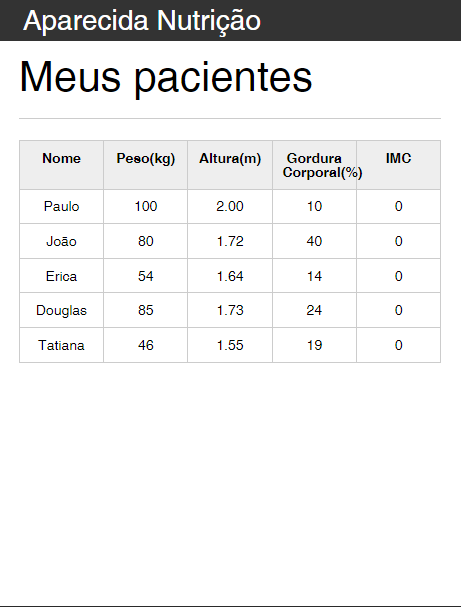
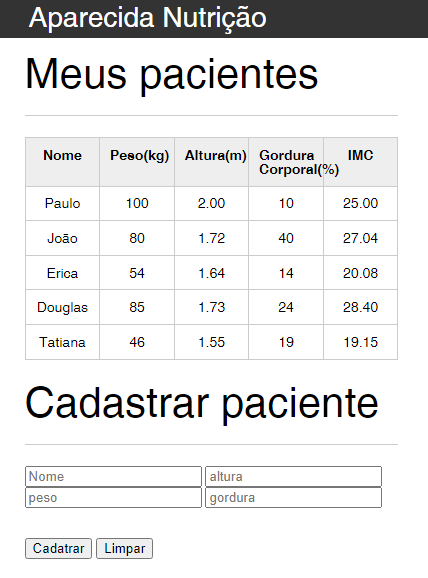
funcionalidade adicionar paciente

diff --git a/js/java.js b/js/java.js
@@ -1,24 +1,75 @@
 var pacientes = document.querySelectorAll(".paciente")
-
+var tabela = document.querySelector("#tabela-pacientes")
 
 
 
 pacientes.forEach(paciente => {
     var peso = paciente.querySelector(".info-peso")
     var altura = paciente.querySelector(".info-altura")
+    var imc= paciente.querySelector(".info-imc")
 
     if(peso.textContent <=0 || peso.textContent>=1000){
-        alert(`O peso de ${ paciente.querySelector(".info-nome").textContent} é invalido`)
+        imc.innerHTML = (`Peso invalida`);
+        paciente.classList.add("paciente-invalido")
 
     }else {if(altura.textContent <=0 || altura.textContent>=1000){
-        alert(`A altura de ${ paciente.querySelector(".info-nome").textContent} é invalida`)
+        imc.innerHTML = (`Altura invalida`);
+        paciente.classList.add("paciente-invalido")
 
     }else{
-        var imc= paciente.querySelector(".info-imc")
         imc.innerHTML = (peso.textContent/(altura.textContent*altura.textContent)).toFixed(2);
     }}
 }
 );
 
+function inseririLinha(){
+
+    
+    var innome = document.querySelector("#fm-nome");
+    var inpeso = document.querySelector("#fm-peso");
+    var inaltura = document.querySelector("#fm-altura");
+    var ingordura = document.querySelector("#fm-gordura");
+    if(innome.value==""){
+        alert("Preencha todos os campos");
+        innome.classList.add("campo-invalido")
+    }else{
+        innome.classList.remove("campo-invalido")
+        if(inpeso.value<=0 || inpeso.value>=300){
+            alert("peso invalido")
+            inpeso.classList.add("campo-invalido")
+
+        }else{
+            inpeso.classList.remove("campo-invalido")
+
+            if(inaltura.value<=0 || inaltura.value>=5.0){
+                alert("altura invalida"); 
+                inaltura.classList.add("campo-invalido")
+ 
+            }else{
+                inaltura.classList.remove("campo-invalido")
+
+                if(ingordura.value<=0 || ingordura.value>=100){
+                    alert("gordura invalida")
+                    ingordura.classList.add("campo-invalido")
+
+
+                }else{
+                    ingordura.classList.remove("campo-invalido");
+
+                    var linha=`<tr class="paciente" >
+                    <td class="info-nome">${innome.value}</td>
+                    <td class="info-peso">${inpeso.value}</td>
+                    <td class="info-altura">${inaltura.value}</td>
+                    <td class="info-gordura">${ingordura.value}</td>
+                    <td class="info-imc">${(inpeso.value/(inaltura.value*inaltura.value)).toFixed(2)}</td>
+                    </tr>`;
+                    tabela.innerHTML+=linha;
+                
+                }
+            }
+        }
+    }       
+}
+    
 
     

diff --git a/index.html b/index.html
@@ -30,7 +30,7 @@
 					<tbody id="tabela-pacientes">
 						<tr class="paciente" id="paciente-01">
 							<td class="info-nome">Paulo</td>
-							<td class="info-peso">-100</td>
+							<td class="info-peso">100</td>
 							<td class="info-altura">2.00</td>
 							<td class="info-gordura">10</td>
 							<td class="info-imc">0</td>
@@ -69,6 +69,25 @@
 					</tbody>
 				</table>
 
+			</section>
+			<section class="container">
+				<br>
+				<h2>Cadastrar paciente</h2>
+
+				<form action=""  class="formulario de cadastro">
+					<div>
+						<input type="text" placeholder="Nome" id="fm-nome">
+						<input type="number" placeholder="altura" id="fm-altura">
+						<input type="number" placeholder="peso" id="fm-peso">
+						<input type="number" placeholder="gordura" id="fm-gordura">
+
+					</div>
+					<div class="adicionar-paciente">
+						<input type="button" onclick="inseririLinha()" value="Cadatrar">
+						<input type="button" value="Limpar">
+
+					</div>
+				</form>
 			</section>
 		</main>
 		<script type="text/javascript" src="js/java.js"></script>

diff --git a/css/index.css b/css/index.css
@@ -132,3 +132,6 @@ button[disabled=disabled], button:disabled {
 .campo-invalido{
 	border: 1px solid red;
 }
+.paciente-invalido{
+	background-color: rgb(192, 55, 55);
+}
